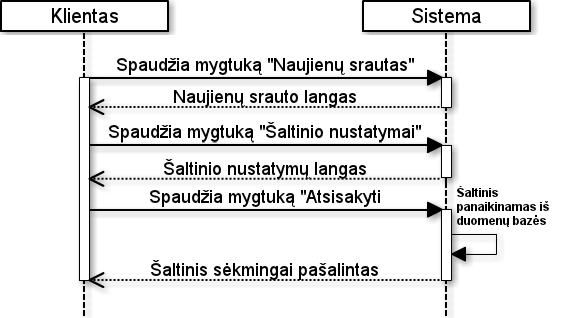
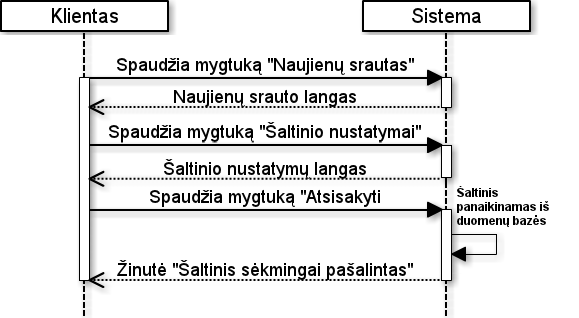
Įvairūs pakeitimai visame dokumente

Changed region(s): [[0.1865, 0.8208, 0.715, 0.8774]]

diff --git a/projektas/2.2_vidine_analize.md b/projektas/2.2_vidine_analize.md
@@ -2,8 +2,6 @@
 
 Nagrinėjame internetinių įrašų ir naujienų skaitymo būdus. Pagrindiniai iš jų yra tiesioginis skaitymas įrašo šaltinyje ir skaitymas naudojant RSS agregatorių. Atlikę išorinę dalykinės srities analizę, nustatėme, kad naudojimasis ir vienu, ir kitu būdu yra problematiški. Didžiausios problemos yra susijusios su per dideliu pateikiamos informacijos kiekiu bei aktualumu klientui.
 
-\newpage
-
 ## Dalykinės srities statinė struktūra
 
 \begin{figure}[ht]
@@ -14,17 +12,17 @@ Nagrinėjame internetinių įrašų ir naujienų skaitymo būdus. Pagrindiniai i
 
 \FloatBarrier
 
-**Klientas:** Klientas, sąveikaujantis su sistema ir tinklaraščiais, juose skaitantis naujienas.
+**Klientas:** Asmuo, sąveikaujantis su sistema ir tinklaraščiais, juose skaitantis naujienas.
 
 **Naujiena:** RSS šaltinyje ar tinklaraštyje publikuojamas tekstinis įrašas.
 
 **RSS Generatorius (šaltinis):** Modulis, generuojantis RSS šaltinį iš naujienų šaltinyje esančių naujienų.
 
-**Skaityklė:** RSS agregatoriaus dalis, su kuria sąveikauja klientas. Klientui parodo RSS Procesoriaus agreguotas naujienas bei leidžia valdyti RSS Procesoriaus naudojamus RSS šaltinius.
+**Skaityklė:** RSS agregatoriaus dalis, su kuria sąveikauja klientas. Klientui parodo RSS procesoriaus agreguotas naujienas bei leidžia valdyti RSS procesoriaus naudojamus RSS šaltinius.
 
-**Tinklaraštis:** Internetinis tinklalapis talpinantis konkretaus autoriaus ar autorių grupės straipsnius tam tikromis temomis.
+**Tinklaraštis:** Internetinis tinklalapis talpinantis konkretaus autoriaus ar autorių grupės naujienas tam tikromis temomis.
 
-**Komentaras:** Tinklaraščio autoriaus ar kliento nuomonė ar pasisakymas apie naujieną, išreikšta tekstu.
+**Komentaras:** Tinklaraščio autoriaus ar kliento nuomonė ar pasisakymas apie naujieną, išreikštas tekstu.
 
 **Autorius:** Asmuo, rašantis naujienas tinklaraščiuose.
 
@@ -62,7 +60,7 @@ Nagrinėjame internetinių įrašų ir naujienų skaitymo būdus. Pagrindiniai i
     \begin{tabular}{|p{3cm}|p{4cm}|p{4cm}|p{4cm}|}
         \hline
         \textbf{Pirminis agentas} & \textbf{Prieš sąlyga} & \textbf{Po sąlyga} & \textbf{Pasikartojimo dažnis} \\ \hline
-        Klientas. & Klientas žino tinklaraščio adresą. & Klientas perskaitė įrašus tinklaraštyje. & Vidutiniškai 3 kartus per dieną. \\
+        Klientas. & Klientas žino tinklaraščio adresą. & Klientas perskaitė naujienas tinklaraštyje. & Vidutiniškai 3 kartus per dieną. \\
         \hline
     \end{tabular}
 \end{table}
@@ -170,7 +168,7 @@ Nagrinėjame internetinių įrašų ir naujienų skaitymo būdus. Pagrindiniai i
     \begin{tabular}{|p{3cm}|p{4cm}|p{4cm}|p{4cm}|}
         \hline
         \textbf{Pirminis agentas} & \textbf{Prieš sąlyga} & \textbf{Po sąlyga} & \textbf{Pasikartojimo dažnis} \\ \hline
-        Klientas. & kliento skaitomų RSS šaltinių sąraše yra bent vienas RSS šaltinis ir kategorijai norimas priskirti RSS šaltinis yra kliento skaitomų RSS šaltinių sąraše. & RSS šaltinis priskirtas kategorijai. & Vidutiniškai 1 kartą vienam RSS šaltiniui. \\
+        Klientas. & Kliento skaitomų RSS šaltinių sąraše yra bent vienas RSS šaltinis ir kategorijai norimas priskirti RSS šaltinis yra kliento skaitomų RSS šaltinių sąraše. & RSS šaltinis priskirtas kategorijai. & Vidutiniškai 1 kartą vienam RSS šaltiniui. \\
         \hline
     \end{tabular}
 \end{table}
@@ -192,7 +190,7 @@ Nagrinėjame internetinių įrašų ir naujienų skaitymo būdus. Pagrindiniai i
     \begin{tabular}{|p{3cm}|p{4cm}|p{4cm}|p{4cm}|}
         \hline
         \textbf{Pirminis agentas} & \textbf{Prieš sąlyga} & \textbf{Po sąlyga} & \textbf{Pasikartojimo dažnis} \\ \hline
-        Klientas. & kliento skaitomų RSS šaltinių sąraše yra bent vienas šaltinis, kliento naujienų sraute yra bent viena naujiena. & Klientas, perskaitęs naujienas, perskaitytos naujienos pažymėtos perskaitytomis. & Vidutiniškai 2 kartus per dieną. \\
+        Klientas. & Kliento skaitomų RSS šaltinių sąraše yra bent vienas šaltinis, kliento naujienų sraute yra bent viena naujiena. & Klientas, perskaitęs naujienas, perskaitytos naujienos pažymėtos perskaitytomis. & Vidutiniškai 2 kartus per dieną. \\
         \hline
     \end{tabular}
 \end{table}
@@ -213,7 +211,7 @@ Nagrinėjame internetinių įrašų ir naujienų skaitymo būdus. Pagrindiniai i
     \begin{tabular}{|p{3cm}|p{4cm}|p{4cm}|p{4cm}|}
         \hline
         \textbf{Pirminis agentas} & \textbf{Prieš sąlyga} & \textbf{Po sąlyga} & \textbf{Pasikartojimo dažnis} \\ \hline
-        Klientas. & kliento naujienų sraute yra bent viena naujiena. & Klientas, radęs ieškomą naujieną. & Vidutiniškai 1 kartą per mėnesį. \\
+        Klientas. & Kliento naujienų sraute yra bent viena naujiena. & Klientas, radęs ieškomą naujieną. & Vidutiniškai 1 kartą per mėnesį. \\
         \hline
     \end{tabular}
 \end{table}
@@ -235,7 +233,7 @@ Nagrinėjame internetinių įrašų ir naujienų skaitymo būdus. Pagrindiniai i
     \begin{tabular}{|p{3cm}|p{4cm}|p{4cm}|p{4cm}|}
         \hline
         \textbf{Pirminis agentas} & \textbf{Prieš sąlyga} & \textbf{Po sąlyga} & \textbf{Pasikartojimo dažnis} \\ \hline
-        Klientas. & kliento naujienų sraute yra bent viena naujiena. & Pasirinkta naujiena pažymėta pamėgtąja. & Vidutiniškai 3 kartus per savaitę. \\
+        Klientas. & Kliento naujienų sraute yra bent viena naujiena. & Pasirinkta naujiena pažymėta pamėgtąja. & Vidutiniškai 3 kartus per savaitę. \\
         \hline
     \end{tabular}
 \end{table}
@@ -260,7 +258,7 @@ Nagrinėjame internetinių įrašų ir naujienų skaitymo būdus. Pagrindiniai i
 
 \FloatBarrier
 
-Klientui, prieš naudojantis RSS šaltiniu, reikia jį pridėti į RSS agregatoriaus prenumeruojamų šaltinių sąrašą. Pridėjus šaltinis tampa aktyvus kliento aplinkoje. Kas nustatytą laiko tarpą šaltinis yra patikrinamas, ar jame nėra naujų įrašų ir jeigu jų yra - juos atvaizduoja klientui kaip naujus, neperskaitytus.
+Klientui, prieš naudojantis RSS šaltiniu, reikia jį pridėti į RSS agregatoriaus prenumeruojamų šaltinių sąrašą. Pridėjus šaltinis tampa aktyvus kliento aplinkoje. Kas nustatytą laiko tarpą šaltinis yra patikrinamas, ar jame nėra naujų naujienų ir jeigu jų yra - juos atvaizduoja klientui kaip naujus, neperskaitytus.
 
 \FloatBarrier
 
@@ -273,20 +271,20 @@ Klientui, prieš naudojantis RSS šaltiniu, reikia jį pridėti į RSS agregator
 \FloatBarrier
 \newpage
 
-RSS agregatorius pastoviais intervalais tikrina ar yra naujų įrašų kliento prenumeruojamame šaltinyje. Jeigu jų yra - atvaizduoja juos klientui kaip neperskaitytus. Klientui perskaičius naujieną, ji pakeičia būseną į perskaitytą ir taip jis gali atskirti, kurie įrašai iš RSS agregatoriaus įkeltų yra nauji, o kurie perskaityti. Aktualius, įdomius, patinkančius įrašus klientas gali pažymėti pamėgtais, taip palengvindamas to įrašo suradimą ateityje. Įrašas gali būti ištrintas iš visų įrašų sąrašo neperskaičius jo, perskaičius ar pažymėjus pamėgtu.
+RSS agregatorius pastoviais intervalais tikrina ar yra naujų naujienų kliento prenumeruojamuose šaltiniuose. Jeigu jų yra - atvaizduoja juos klientui kaip neperskaitytus. Klientui perskaičius naujieną, ji pakeičia būseną į perskaitytą ir taip klientas gali atskirti, kurios naujies iš RSS agregatoriaus įkeltų yra naujos, o kurios perskaitytos. Aktualias, įdomias, patinkančias naujienas klientas gali pažymėti pamėgtomis, taip palengvindamas tos naujienos suradimą ateityje. Perskaitytas naujienas klientas vėl gali pažymėti neperskaitytomis, taip pasižymint, pavyzdžiui, ne pilnai perskaitytas naujienas, kurias norės perskaityti ateityje. Naujiena gali būti ištrinta iš visų naujienų sąrašo neperskaičius jos, perskaičius ar pažymėjus pamėgta.
 
 \FloatBarrier
 
 ## Stiprybės
 
-- Sistemos gali aptarnauti daug klientų vienu metu.
+- Sistema gali aptarnauti daug klientų vienu metu.
 - Klientų aptarnavimas yra visiškai automatizuotas.
 - RSS agregatorius gali dirbti su dideliais šaltinių kiekiais.
 - Tinklaraštis suteikia galimybę sužinoti skaitytojų nuomones apie straipsnį.
 
 ## Silpnybės
 
-- RSS Agregatoriaus rodomas turinys priklauso nuo išorinių RSS generatorių, kurių ši sistema negali kontroliuoti.
-- RSS Agregatorius negali garantuoti, kad naujienų informacija bus paimama iš RSS generatoriaus, jei jo sugeneruojamas kodas nėra teisingas ar neatitinka Atom standarto.
+- RSS agregatoriaus rodomas turinys priklauso nuo išorinių RSS generatorių, kurių ši sistema negali kontroliuoti.
+- RSS agregatorius negali garantuoti, kad naujienų informacija bus paimama iš RSS generatoriaus, jei jo sugeneruojamas kodas nėra teisingas ar neatitinka Atom standarto.
 - Prieš skaitant įrašus tinklaraštyje klientas nežino, ar jame yra naujų įrašų, ar ne.
 - Klientas tinklaraštyje privalo peržvelgti visus įrašus, norėdamas surasti jam aktualų, naują straipsnį.

diff --git a/projektas/2.6_igyvendinamumo_ir_naudos_analize.md b/projektas/2.6_igyvendinamumo_ir_naudos_analize.md
@@ -2,15 +2,28 @@
 
 ## Operacinis įgyvendinamumas
 
-\begin{table}[!ht]
-    \begin{tabular}{|p{8cm}|p{8cm}|}
-        \hline
-        \textbf{Inovaciniai slenksčiai} & \textbf{Inovaciniai slenksčiai pašalinami} \\ \hline
+\setstretch{1}
+\xentrystretch{-0.65}
+\tablefirsthead{%
+    \hline
+    \multicolumn{1}{|c|}{\textbf{Inovaciniai slenksčiai}} &
+    \multicolumn{1}{c|}{\textbf{Dabar}} \\
+    \hline}
+\tablehead{%
+    \multicolumn{2}{c}{2 lentelės tęsinys}\\
+    \hline
+    \multicolumn{1}{|c|}{\textbf{Inovaciniai slenksčiai}} &
+    \multicolumn{1}{c|}{\textbf{Dabar}} \\
+    \hline}
+\tabletail{\hline}
+\tablelasttail{\hline}
+\topcaption{Operacinis įgyvendinamumas}
+\begin{xtabular*}{\linewidth}{@{\extracolsep{\fill}}|*{2}{p{8cm}|}}
+\hline
         Net ir techninėje srityje išsilavinęs asmuo gali neturėti pakankamai žinių sistemos administratoriaus pozicijai užimti. & Sistemos administratoriui bus surengti mokymai. \\ \hline
         Klientai gali nesinaudoti sistema, nes panašios sistemos nebuvo plačiai naudojamos dėl jų sudėtingumo. & Reklamuojant sistemą bus akcentuojamas jos naudojimo paprastumas ir efektyvumas. \\ \hline
         Klientui sistema gali pasirodyti pernelyg sudėtinga naudojimui. & Sistemoje bus įdiegta edukacinė dalis: demonstraciniai vaizdo įrašai apie sistemos naudojimą, patarimai, atsakymai į klientų klausimus. \\ \hline
-    \end{tabular}
-\end{table}
+\end{xtabular*}
 
 \FloatBarrier
 
@@ -30,9 +43,9 @@ Programinės įrangos kūrimas:
     \begin{tabular}{|p{8cm}|p{2cm}|p{2cm}|p{2cm}|}
         \hline
         \textbf{Prekė} & \textbf{Kiekis, žmog. val.} & \textbf{Kaina, Lt/val.} & \textbf{Suma, Lt} \\ \hline
-        Sistemos projektavimas & 300 val. & 70 Lt/val. & 21 000 Lt \\ \hline
+        Sistemos projektavimas & 200 val. & 70 Lt/val. & 14 000 Lt \\ \hline
         Sistemos programavimas & 220 val. & 60 Lt/val. & 13 200 Lt \\ \hline
-        \multicolumn{4}{|r|}{Viso: 24 200 Lt} \\ \hline
+        \multicolumn{4}{|r|}{Viso: 17 200 Lt} \\ \hline
     \end{tabular}
 \end{table}
 
@@ -44,9 +57,9 @@ Programinės įrangos diegimas:
     \begin{tabular}{|p{8cm}|p{2cm}|p{2cm}|p{2cm}|}
         \hline
         \textbf{Prekė} & \textbf{Kiekis, žmog. val.} & \textbf{Kaina, Lt/val.} & \textbf{Suma, Lt} \\ \hline
-        Sistemos diegimas & 70 val. & 60 Lt/val. & 4 200 Lt \\ \hline
+        Sistemos diegimas & 40 val. & 60 Lt/val. & 2 400 Lt \\ \hline
         Sistemos administratoriaus apmokymas & 20 val. & 50 Lt/val. & 1 000 Lt \\ \hline
-        \multicolumn{4}{|r|}{Viso: 5 200 Lt} \\ \hline
+        \multicolumn{4}{|r|}{Viso: 3 400 Lt} \\ \hline
     \end{tabular}
 \end{table}
 
@@ -58,9 +71,8 @@ Techninė įranga:
     \begin{tabular}{|p{8cm}|p{2cm}|p{2cm}|p{2cm}|}
         \hline
         \textbf{Prekė} & \textbf{Kiekis, vnt.} & \textbf{Kaina, Lt} & \textbf{Suma, Lt} \\ \hline
-        Kompiuteris sistemos administratoriui & 1 & 1 745 Lt & 1 745 Lt \\ \hline
-        Monitorius sistemos administratoriui & 1 & 331 Lt & 331 Lt \\ \hline
-        \multicolumn{4}{|r|}{Viso: 2 076 Lt} \\ \hline
+        Kompiuteris ir monitorius sistemos administratoriui & 1 & 1 449 Lt & 1 449 Lt \\ \hline
+        \multicolumn{4}{|r|}{Viso: 1 449 Lt} \\ \hline
     \end{tabular}
 \end{table}
 
@@ -74,18 +86,18 @@ Sistemos eksploatavimo išlaidos:
     \begin{tabular}{|p{8cm}|p{2cm}|p{2cm}|p{2cm}|}
         \hline
         \textbf{Prekė} & \textbf{Kiekis, vnt.} & \textbf{Kaina, Lt/mėn.} & \textbf{Suma, Lt/mėn.} \\ \hline
-        Sistemos administratoriaus atlyginimas & 1 & 2 000 Lt & 2 000 Lt \\ \hline
+        Sistemos administratoriaus atlyginimas & 1 & 1 000 Lt & 1 000 Lt \\ \hline
         Internetas sistemos administratoriui & 1 & 50 Lt & 50 Lt \\ \hline
-        Pagrindinio serverio nuoma duomenų centre & 1 & 1 400 Lt & 1 400 Lt \\ \hline
+        Pagrindinio serverio nuoma duomenų centre & 1 & 400 Lt & 400 Lt \\ \hline
         Reklama & 1 & 500 Lt & 500 Lt \\ \hline
-        \multicolumn{4}{|r|}{Viso: 3 950 Lt/mėn} \\ \hline
+        \multicolumn{4}{|r|}{Viso: 1 950 Lt/mėn} \\ \hline
     \end{tabular}
 \end{table}
 
 \FloatBarrier
 
-Sistemos fiksuotos išlaidos: 31 476 Lt  
-Sistemos eksploatavimo išlaidos: 3 950 Lt/mėn.
+Sistemos fiksuotos išlaidos: 22 049 Lt  
+Sistemos eksploatavimo išlaidos: 1 950 Lt/mėn.
 
 Sistemos atsiperkamumas:
 
@@ -93,7 +105,7 @@ Pirminis klientų šaltinis - įvairių tipų reklama.
 
 Mėnesiniui reklamos kampanijos biudžetui esant 500 Lt, o už reklamos paspaudimą mokant apie 0.50 Lt ir esant 6% reklamos parodymų ir paspaudimų santykiui (angl. CTR - Click Through Rate), per mėnesį reklamos būtų parodomos 33 tūkstančius kartų, o į sistemą būtų nusiunčiama apie 1000 galimų klientų.  
 Esant 10% tikimybei, kad lankytojas taps sistemos naudotoju, per mėnesį verslas įgytų po 100 naujų klientų.  
-Laikant, kad per mėnesį verslas įgytų po 100 naujų klientų ir paslaugos kainai esant 20 Lt/mėn., sistema pilnai atsipirktų per 7 mėnesius, turėdama 700 klientų.
+Laikant, kad per mėnesį verslas įgytų po 100 naujų klientų ir paslaugos kainai esant 9 Lt/mėn., sistema pilnai atsipirktų per 9 mėnesius, turėdama 900 klientų.
 
 Į skaičiavimus nebuvo įtraukti klientai, atėję dėl egzistuojančių klientų rekomendacijų, reklamų socialiniuose tinkluose, reklamos kampanijos optimizavimas pasinaudojant A/B testavimu, kas gali pagreitinti sistemos atsipirkimą.
 

diff --git a/projektas/x_terminu_zodynelis.md b/projektas/x_terminu_zodynelis.md
@@ -1,18 +1,18 @@
 # Terminų žodynėlis
 
 **Autorius:** Asmuo, rašantis naujienas tinklaraščiuose.  
-**Klientas:** Klientas, sąveikaujantis su sistema ir tinklaraščiais, juose skaitantis naujienas.  
-**Komentaras:** Tinklaraščio autoriaus ar kliento nuomonė ar pasisakymas apie naujieną, išreikšta tekstu.  
+**Klientas:** Asmuo, sąveikaujantis su sistema ir tinklaraščiais, juose skaitantis naujienas.  
+**Komentaras:** Tinklaraščio autoriaus ar kliento nuomonė ar pasisakymas apie naujieną, išreikštas tekstu.  
 **Naujiena:** RSS šaltinyje ar tinklaraštyje publikuojamas tekstinis įrašas.  
-**Neaktyvūs turinio šaltinis:** Šaltinis, kuris jau nebuvo atnaujintas 4 ir daugiau mėnesių.  
-**Neperskaityta naujiena:** Naujiena esanti RSS agregatoriuje, kuri dar nebuvo perskaityta kliento.  
+**Neaktyvus turinio šaltinis:** Šaltinis, kuris nebuvo atnaujintas 4 ir daugiau mėnesių.  
+**Neperskaityta naujiena:** Naujiena esanti RSS agregatoriuje, kuri dar nebuvo perskaityta kliento arba buvo pažymėta tokia kliento.   
 **Pamėgta naujiena:** Naujiena esanti RSS agregatoriuje, kuri buvo perskaityta ir pažymėta kliento.  
 **Pastovūs skaitytojai:** Skaitytojai, kurie tinklaraštyje apsilanko 1 ar daugiau kartų per savaitę.  
-**Perskaityta naujiena:** Naujiena, kurią perskaitė klientas RSS agregatoriuje.  
+**Perskaityta naujiena:** Naujiena, kurią klientas perskaitė RSS agregatoriuje.  
 **RSS agregatoriaus prenumeruojamų šaltinių sąrašas:** Sąrašas klientą dominančių adresų, kuriuos klientas po vieną prideda į RSS agregatorių, kad šis galėtų automatiškai surinkti medžiagą iš klientui aktualių šaltinių.  
 **RSS agregatorius:** RSS sąsaja pateikiamos informacijos peržiūros programa, kuri surenka medžiagą iš dominančių šaltinių, susistemina ir pateikia ją vartotojui.  
 **RSS generatorius (šaltinis):** Modulis, generuojantis RSS šaltinį iš naujienų šaltinyje esančių naujienų.  
 **RSS procesorius:** RSS Skaityklės dalis, su kuria klientas tiesiogiai nesąveikauja. Nuskaito naujienų sąrašus iš kiekvieno RSS šaltinio bei agreguoja naujienų informaciją.  
-**Skaityklė:** RSS agregatoriaus dalis, su kuria sąveikauja klientas. Klientui parodo RSS Procesoriaus agreguotas naujienas bei leidžia valdyti RSS Procesoriaus naudojamus RSS šaltinius.  
+**Skaityklė:** RSS agregatoriaus dalis, su kuria sąveikauja klientas. Klientui parodo RSS procesoriaus agreguotas naujienas bei leidžia valdyti RSS procesoriaus naudojamus RSS šaltinius.  
 **Tikslinė auditorija:** Tam tikra tinklaraštį skaitančios auditorijos dalis, kuriai autoriaus parašyta naujiena yra aktualiausia.  
 **Tinklaraštis:** Internetinis tinklalapis talpinantis konkretaus autoriaus ar autorių grupės straipsnius tam tikromis temomis.  

diff --git a/projektas/2.5_sistemos_naudojimo_scenarijus.md b/projektas/2.5_sistemos_naudojimo_scenarijus.md
@@ -29,7 +29,7 @@
     \begin{tabular}{|p{3cm}|p{4cm}|p{4cm}|p{4cm}|}
         \hline
         \textbf{Pirminis agentas} & \textbf{Prieš sąlyga} & \textbf{Po sąlyga} & \textbf{Pasikartojimo dažnis} \\ \hline
-        Klientas. & Šaltinis domina klientą. & Klientas sužinojo populiariausius RSS šaltinius. & Vidutiniškai 1 kartą per mėnesį. \\
+        Klientas. & Klientą domina populiarūs RSS šaltiniai. & Klientas sužinojo populiariausius RSS šaltinius. & Vidutiniškai 1 kartą per mėnesį. \\
         \hline
     \end{tabular}
 \end{table}
@@ -121,14 +121,15 @@
 \FloatBarrier
 RSS sistemos pagalba galima automatiškai sekti naujų straipsnių norimose rubrikose publikavimą neužeinant į interneto puslapius ar kitus įvairius interneto informacijos šaltinius bei surinkti ir susisteminti periodiškai atnaujinamą naujausią įvairiapusišką informaciją. Užsiregistravęs ir prisijungęs vartotojas gali pridėti ir ištrinti savo norimus RSS šaltinius, skaityti jų pateikiamas naujienas. Naujienas, kurios sudomina klientą, galima pažymėti kaip pamėgtąsias ir vėliau lengviau rasti naudojantis paieška. Kad klientas gautų kuo mažiau neaktualaus turinio, klientas gali nusistatyti savo privačius filtrus, kuriais vadovaujantis, RSS agregatorius atrinktų aktualiausią klientui turinį. Naujas klientas, dar tik pradedantis savo pažintį su RSS sistemos teikiamomis naudomis gali išsikviesti sistemos pažinimo vedlį, ar peržiūrėti populiariausius prenumeruojamus šaltinius. 
 
+\newpage
+
 ## Priemonės scenarijui įgyvendinti
 
 \begin{enumerate}
     \item Techninė įranga
         \begin{enumerate}
-            \item Serveris: 2x Intel Xeon E5649 6x2x2.53 GHz, 48GB ECC DDRIII, 8 x SATA3 2TB 7200RPM, 100Mbps/1Gbps port.
-            \item Personalinis kompiuteris: AMD FX 4-Core Black Edition FX-4100, 3.6 GHz, 4GB DDR3 1333, 500GB 7200rpm, ATI Radeon HD7770 1 GB 128bit GDDR5 PCI-E, klaviatūra, pelė.
-            \item Monitorius: BenQ G2020HD, 20".
+            \item Serveris: Intel Xeon E3-1240V2, 4x2x3.4 GHz, 16GB ECC DDRIII, RAID1 2x 2TB 7200RPM, 100Mbps/1Gbps port.
+            \item Personalinis kompiuteris: Intel Core i3-2100, 3.1 GHz, 4GB DDR3 1333, 500GB 7200rpm, Intel HD Graphics 2000, klaviatūra, pelė, monitorius: LG, 22"
             \item Kabeliai (10/100 MB/s).
         \end{enumerate}
     \item Programinė įranga

diff --git a/projektas/2.0_destymas.md b/projektas/2.0_destymas.md
@@ -1,3 +1,3 @@
 # Verslo proceso aprašas
 
-Klientai, turintys interneto prieigą, dažniausiai skaito naujienas internete. Greitam naujienų pasiekimui naudojama RSS skaityklė. Tinklalapiai paskelbia savo naujienų šaltinius (angl. news feed), kurie sukuriami su RSS generatoriumi. Klientas RSS agregatoriuje, pateikęs norimo naujienų šaltinio nuorodą, skaito naujausias aktualijas, neaplankydamas pačio tinklalapio. Dažnai klientai sugrupuoja ar kitaip apdoroja gautas naujienas savo patogumui.
+Klientai, turintys interneto prieigą, dažniausiai skaito naujienas internete. Vienas iš naujienų perskaitymo būdų yra tiesioginis jų skaitymas tinklaraštyje. Dažnai naujienų autoriai savo tinklaraščiuose suteikia galimybę klientams susisiekti su jais, palikti komentarus apie naujienas. Greitesniam naujienų pasiekimui naudojama RSS skaityklė, kurioje galima skaityti įvairias skirtingų autorių naujienas.

diff --git a/projektas/2.1_isorine_analize.md b/projektas/2.1_isorine_analize.md
@@ -1,10 +1,7 @@
 # Išorinė verslo proceso analizė
 
-
-
-
 \setstretch{1}
-\xentrystretch{0.55}
+\xentrystretch{-0.65}
 \begin{center}\footnotesize
 \tablefirsthead{%
     \hline
@@ -94,7 +91,7 @@
             \textbullet \raggedright Tvarkingai vaizduojamos naujienos. \par
         \end{tabular} &
         \begin{tabular}[t]{p{3cm}}
-            \textbullet \raggedright Aktyvių ir viso registruotų klientų skaičiaus santykis bent 60\%. \par
+            \textbullet \raggedright Aktyvių ir visų registruotų klientų skaičiaus santykis bent 60\%. \par
             \textbullet \raggedright Sistema būtų pasiekiama ne mažiau nei 95\% laiko. \par
             \textbullet \raggedright Nėra deformuojamas naujienos tekstas. \par
         \end{tabular} &

diff --git a/projektas/1_ivadas.md b/projektas/1_ivadas.md
@@ -33,11 +33,11 @@ Skipbug komanda:
     - Sistemos administratorius
 
         + Sprendžia iškilusias problemas, susijusias su technine sistemos dalimi
-        + **Kompetencija:** aukštasis Informacinių Technologijų srities išsilavinimas
+        + **Kompetencija:** aukštasis informacinių technologijų srities išsilavinimas
 
     - Klientas (Sistemos lankytojas)
 
-        + Domisi Sistemoje pateikiamama informacija
+        + Domisi sistemoje pateikiamamomis naujienomis, naudojasi sistemos siūlamomis paslaugomis
         + **Kompetencija:** vidurinės mokyklos informatikos kursas
 
 * **Darbo pagrindas:**  

diff --git a/projektas/2.3_analizes_isvados.md b/projektas/2.3_analizes_isvados.md
@@ -1,8 +1,8 @@
 # Analizės rezultatai
 
-\begin{figure}[ht]
+\begin{figure}[!ht]
     \centering
-    \includegraphics[width=1.05\textwidth]{projektas/img/swot.png}
+    \includegraphics[width=0.98\textwidth]{projektas/img/swot.png}
     \caption{SWOT diagrama}
 \end{figure}
 
